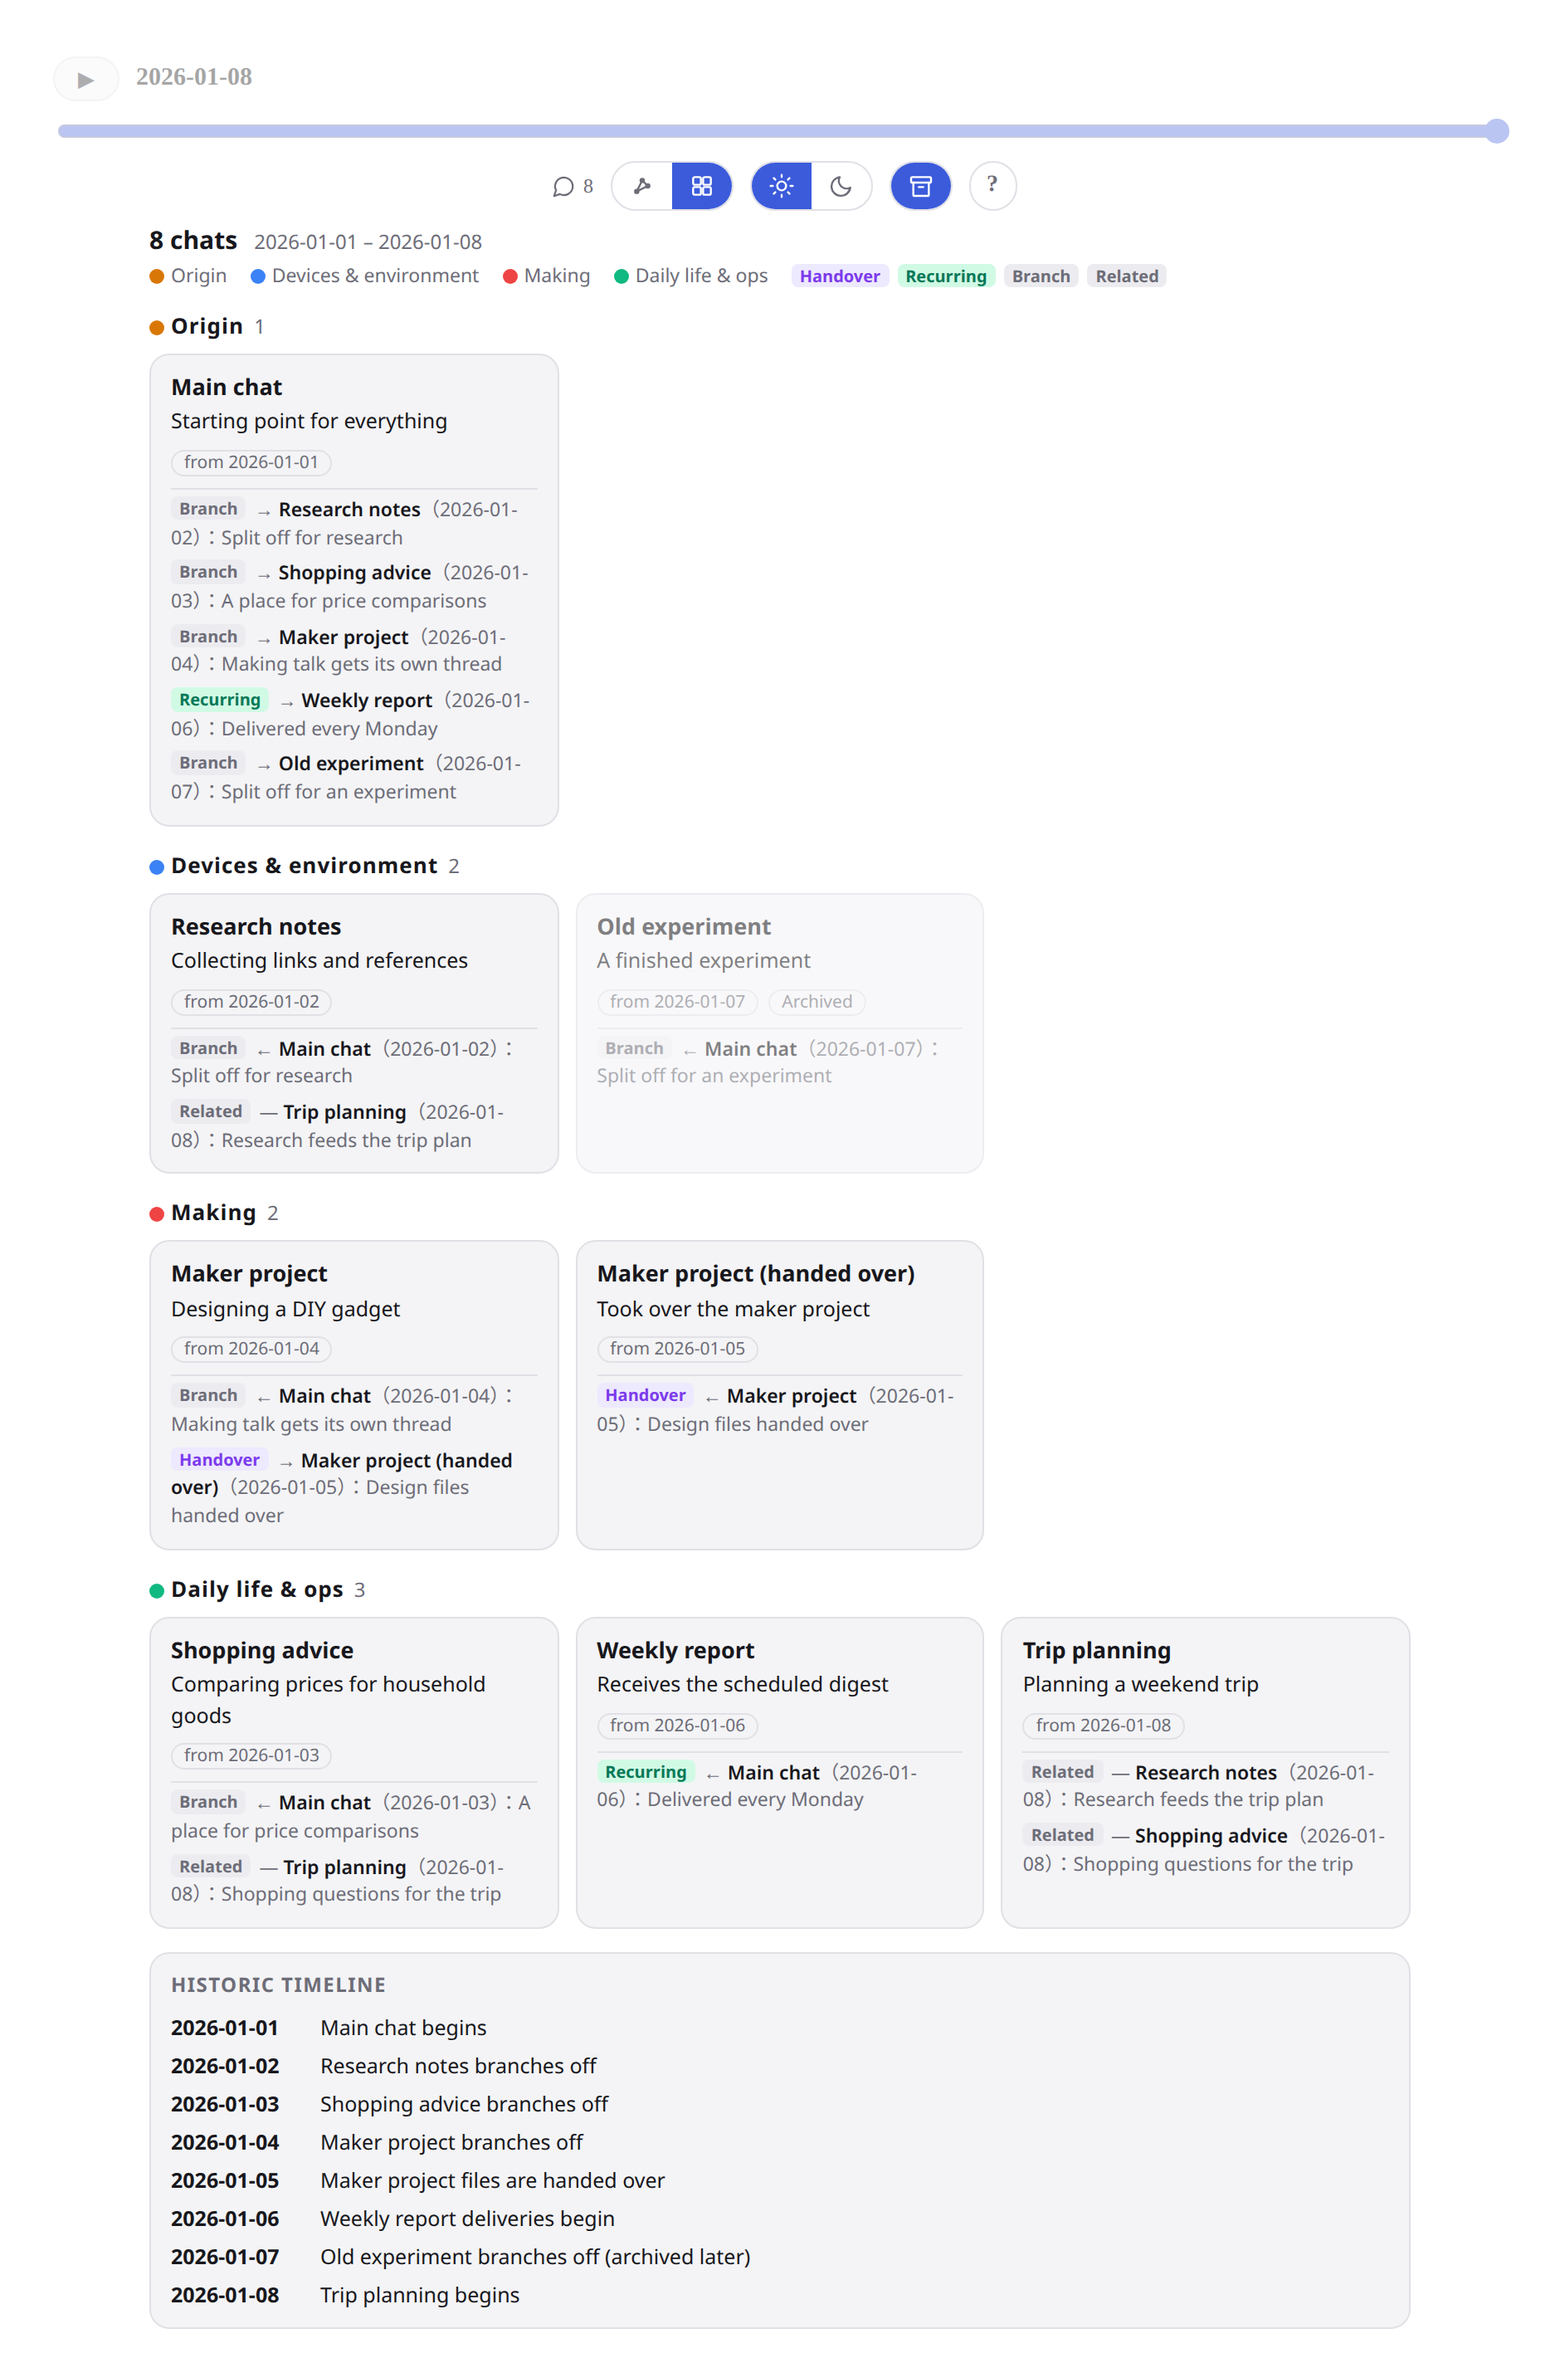
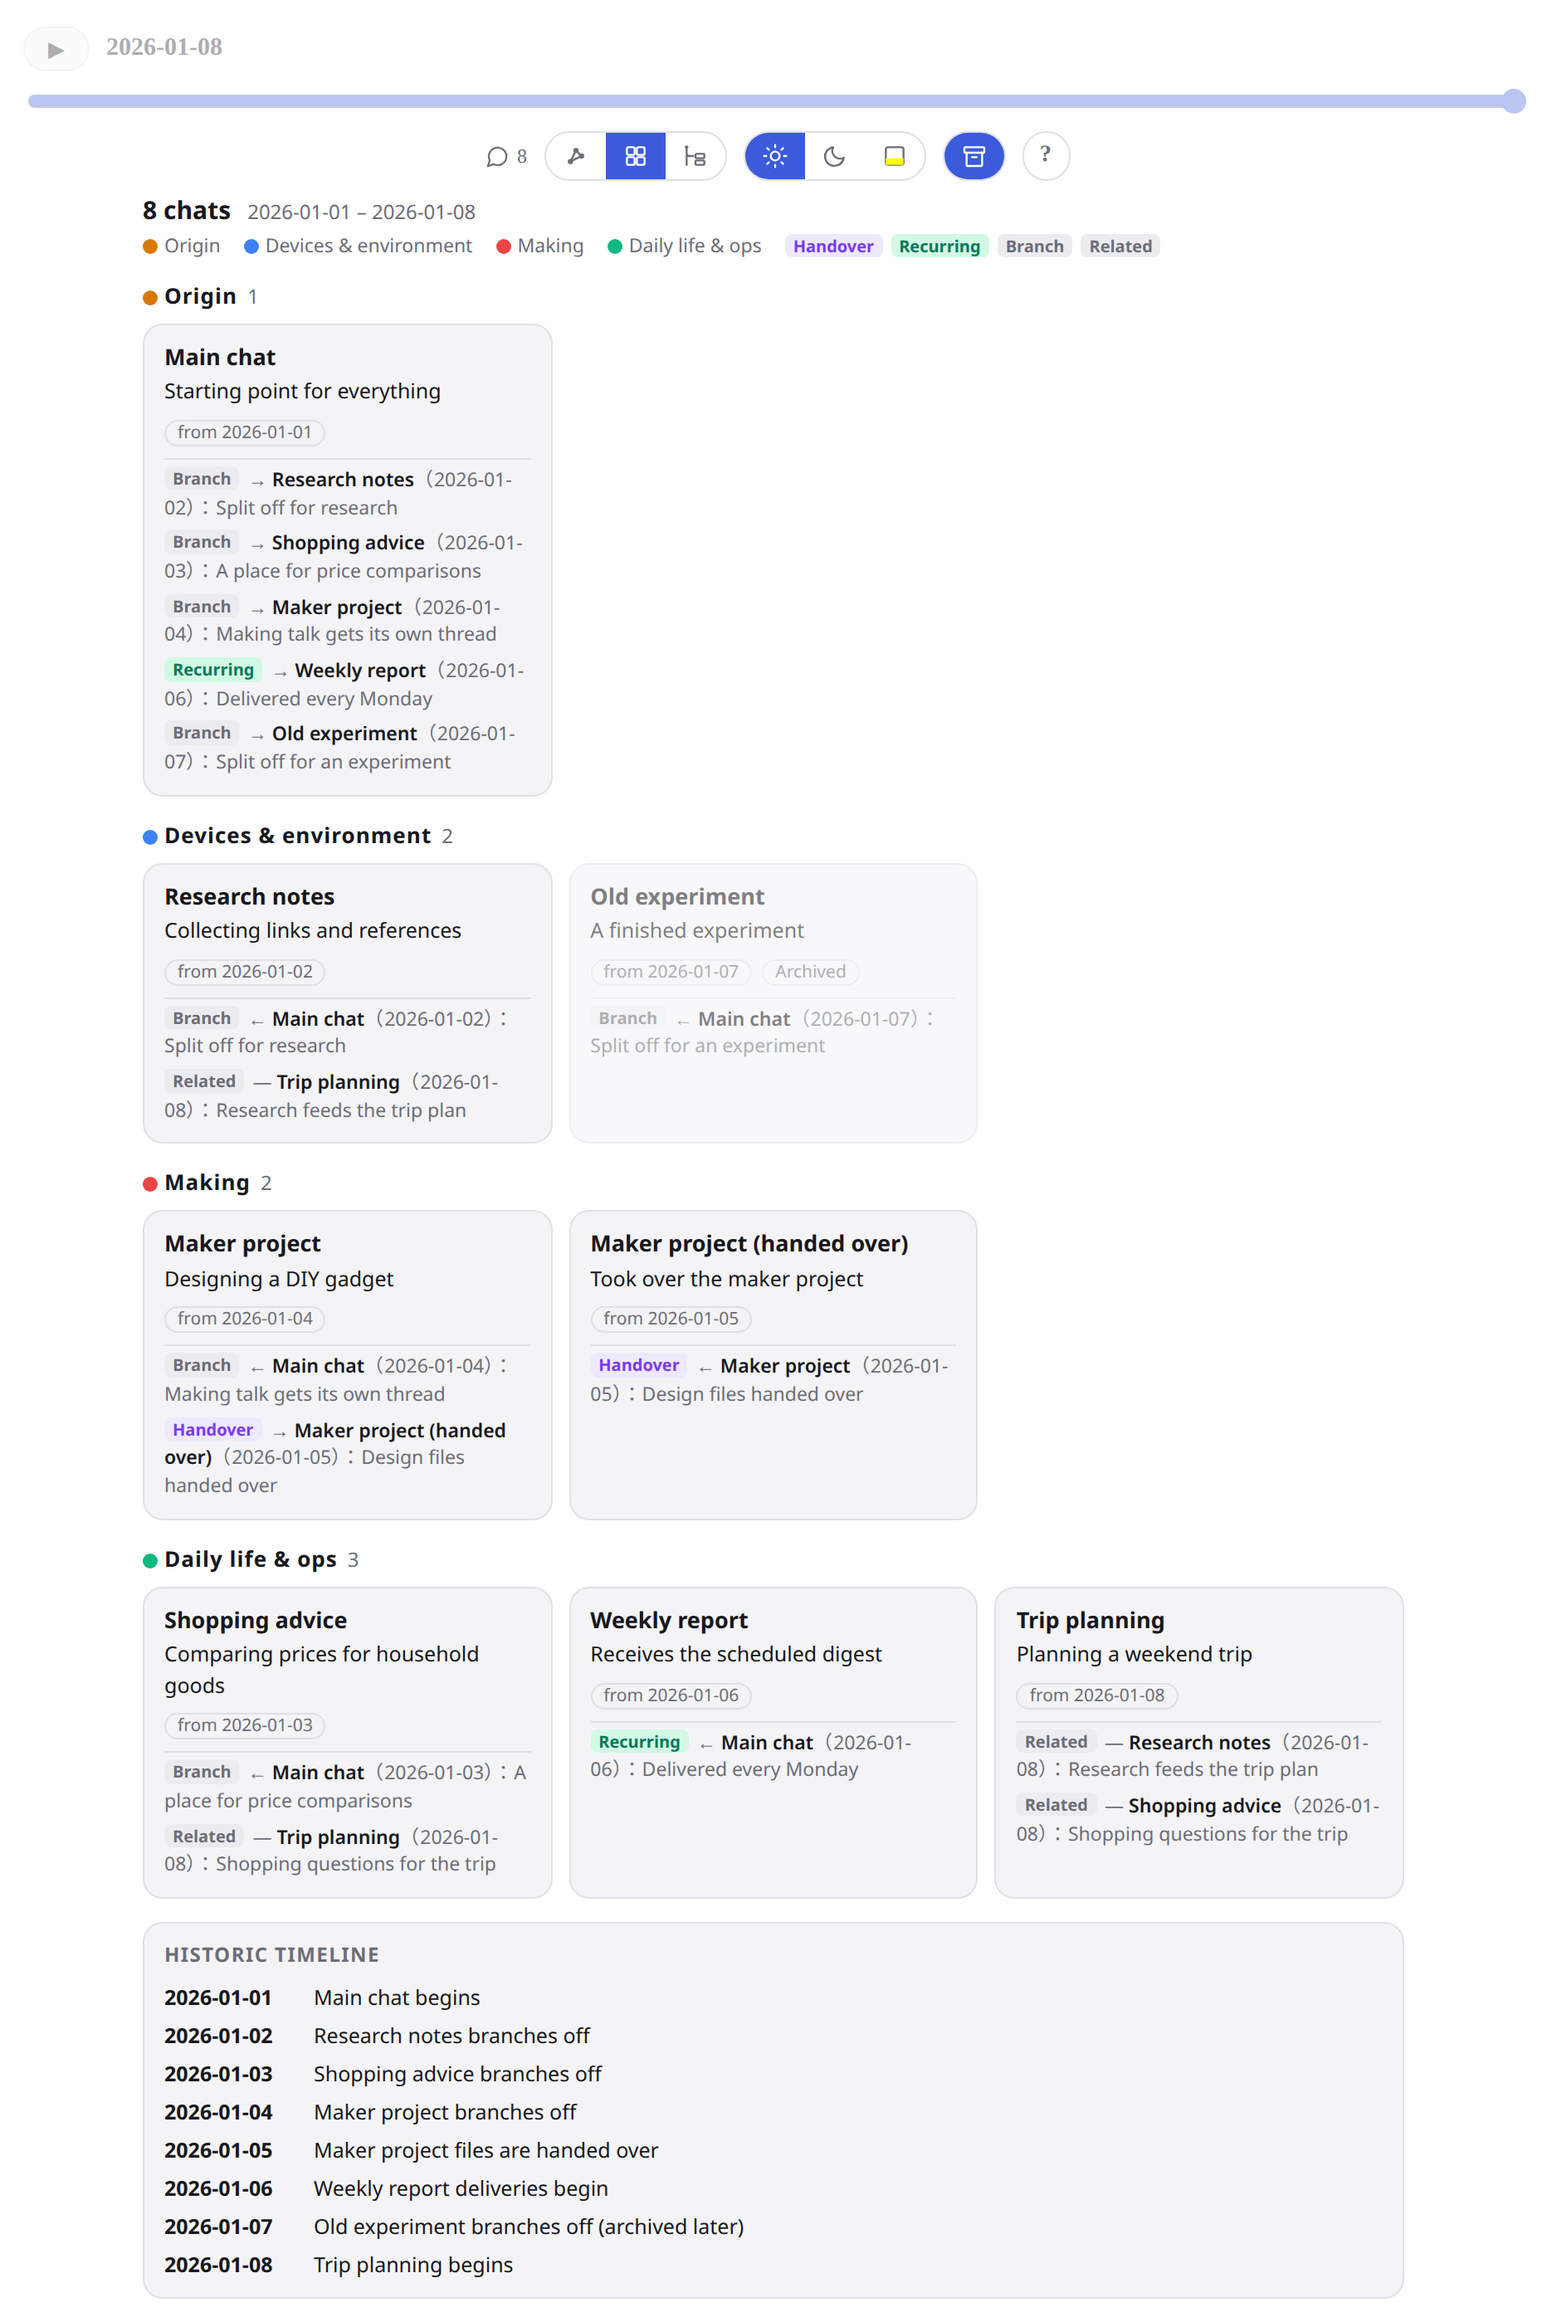
Refresh screenshots for v2.1; add tree and ***REMOVED*** shots

diff --git a/README.md b/README.md
@@ -31,6 +31,14 @@
 
 ![Card view](docs/images/cards-en.png)
 
+![Tree view](docs/images/tree-en.png)
+
+*Tree view: clusters as folders, chats as files.*
+
+![Graph view, monochrome (***REMOVED***) tone](docs/images/graph-***REMOVED***-en.png)
+
+*The monochrome (***REMOVED***) tone.*
+
 </details>
 
 <details>
